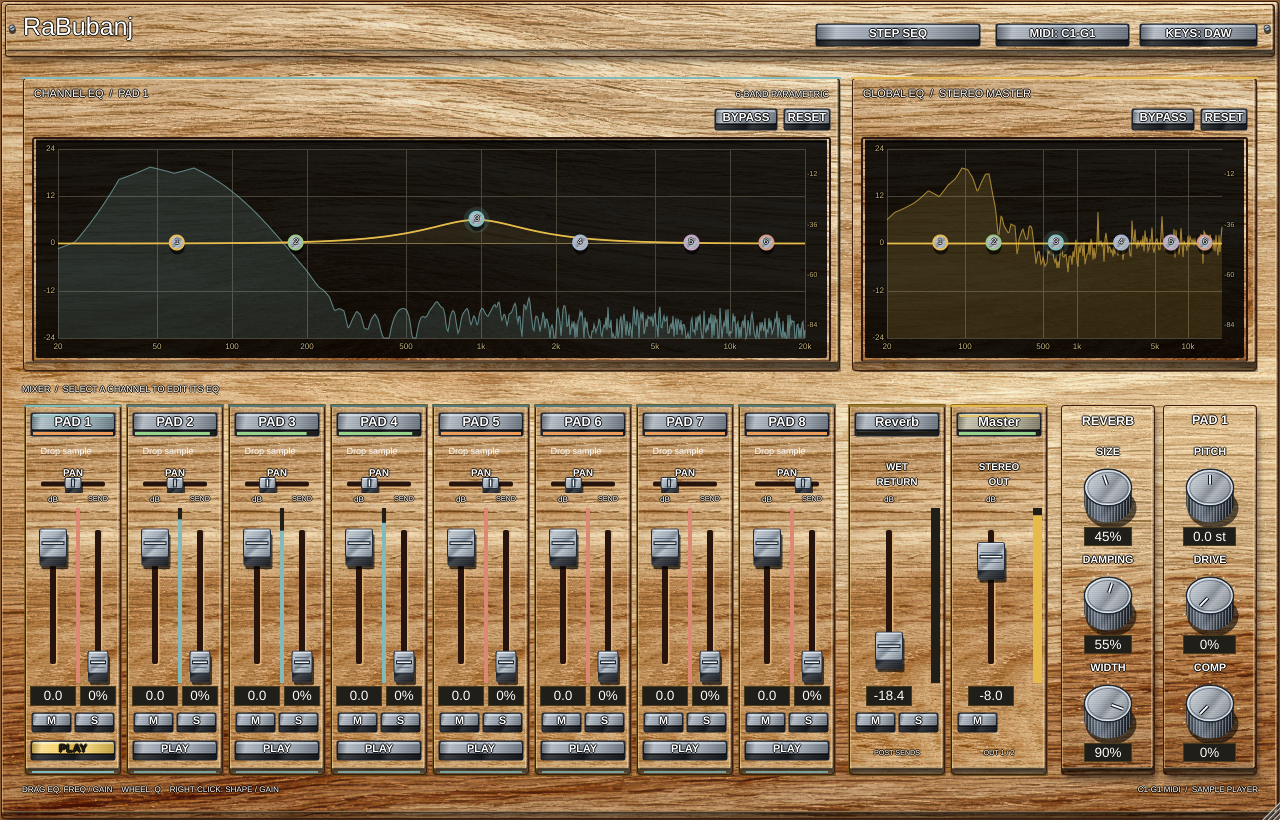
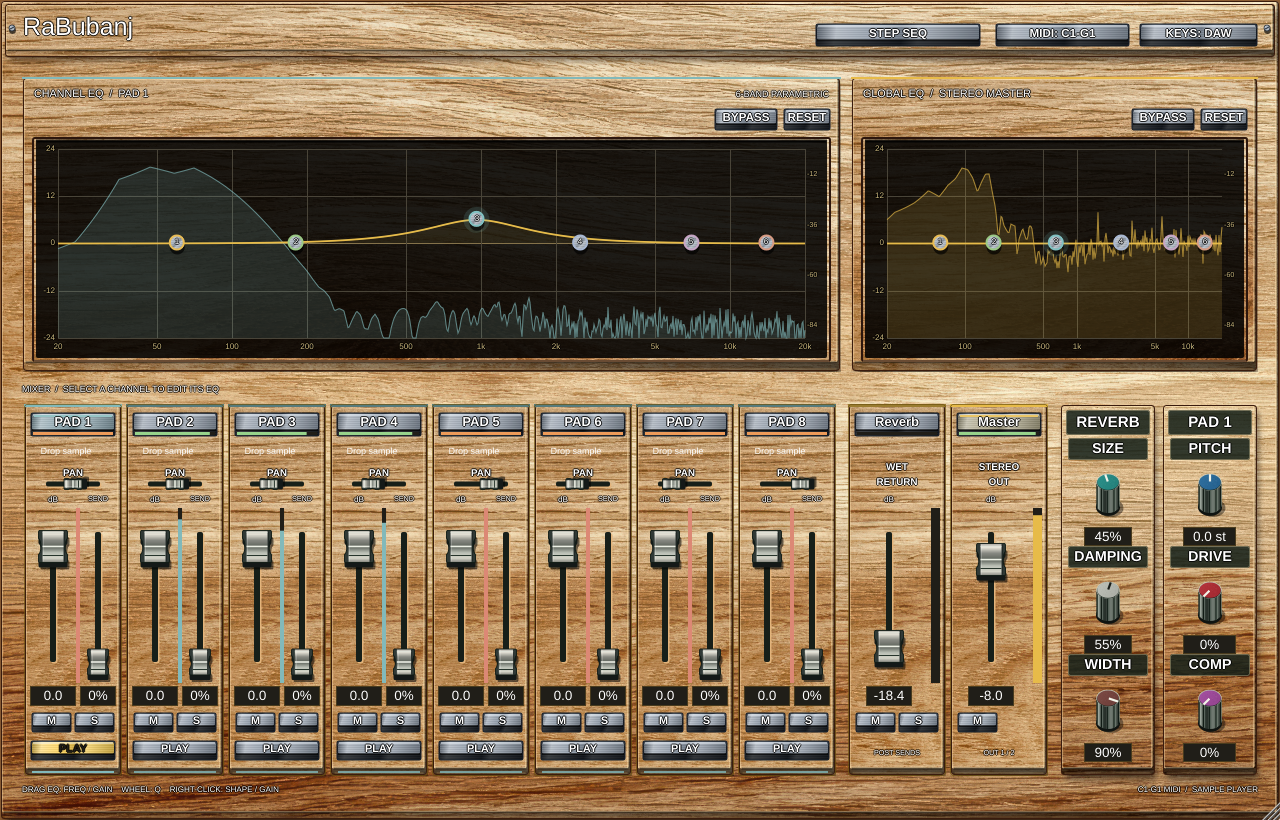
Refine reference controls with smaller rotary knobs and clearer legends

diff --git a/Source/PluginEditor.cpp b/Source/PluginEditor.cpp
@@ -69,44 +69,110 @@ void MixerLookAndFeel::drawComboBox(juce::Graphics& g, int w, int h, bool down, 
 }
 void MixerLookAndFeel::drawRotarySlider(juce::Graphics& g, int x, int y, int w, int h, float position, float start, float end, juce::Slider& s)
 {
-    const auto radius = juce::jmin(static_cast<float>(w), static_cast<float>(h))*.5f-9;
-    if (radius < 3) return;
-    const auto cx = static_cast<float>(x)+static_cast<float>(w)*.5f, cy = static_cast<float>(y)+static_cast<float>(h)*.5f;
-    const auto rise = juce::jmin(19.0f, radius*.7f), angle = start+position*(end-start);
-    const juce::Rectangle<float> top(cx-radius, cy-radius*.78f-rise*.42f, radius*2, radius*1.56f);
-    const auto lower = top.translated(0, rise);
-    for (int tick = 0; tick <= 10; ++tick)
-    {
-        const auto a = start+static_cast<float>(tick)*(end-start)/10;
-        g.setColour(ink.withAlpha(s.isEnabled() ? .9f : .35f));
-        g.drawLine(cx+std::sin(a)*(radius+4), cy-std::cos(a)*(radius+4), cx+std::sin(a)*(radius+6), cy-std::cos(a)*(radius+6), 1);
-    }
-    g.setColour(juce::Colours::black.withAlpha(.6f)); g.fillEllipse(lower.translated(3, 4).expanded(2));
-    juce::Path body; body.addRectangle(top.getX(), top.getCentreY(), top.getWidth(), rise); body.addEllipse(lower);
-    metalSurface(g, body, steelDark);
-    juce::ColourGradient sides(juce::Colours::black.withAlpha(.65f), top.getX(), cy, juce::Colours::black.withAlpha(.7f), top.getRight(), cy, false);
-    sides.addColour(.3, juce::Colour(0xffe5f1ff).withAlpha(.4f)); sides.addColour(.65, juce::Colours::black.withAlpha(.25f));
-    g.setGradientFill(sides); g.fillPath(body);
+    // Keep the approved reference silhouette and scale the complete rotary artwork by 70%.
+    // Slider bounds and mouse/automation behaviour remain independent of the rendered size.
+    juce::Graphics::ScopedSaveState savedKnob(g);
+    g.addTransform(juce::AffineTransform::scale(.7f, .7f, static_cast<float>(x)+static_cast<float>(w)*.5f, static_cast<float>(y)+static_cast<float>(h)*.5f));
+    const auto diameter = juce::jmin(static_cast<float>(w)-14, (static_cast<float>(h)-9)/1.7f);
+    if (diameter < 6) return;
+    const auto radius = diameter*.5f, rise = diameter*.98f, capHeight = diameter*.72f;
+    const auto cx = static_cast<float>(x)+static_cast<float>(w)*.5f;
+    const auto topY = static_cast<float>(y)+3;
+    const juce::Rectangle<float> top(cx-radius, topY, diameter, capHeight), lower = top.translated(0, rise);
+    const auto angle = start+position*(end-start), topCy = top.getCentreY();
+    const auto name = s.getName();
+    const auto colour = !s.isEnabled() ? juce::Colour(0xff72766f)
+        : name.containsIgnoreCase("pitch") ? juce::Colour(0xff286b9d)
+        : name.containsIgnoreCase("drive") ? juce::Colour(0xffb42c35)
+        : name.containsIgnoreCase("compression") ? juce::Colour(0xffa34b9f)
+        : name.containsIgnoreCase("damping") ? juce::Colour(0xffbdc0b7)
+        : name.containsIgnoreCase("width") ? juce::Colour(0xff78443e) : juce::Colour(0xff258e87);
+    g.setColour(juce::Colours::black.withAlpha(.42f)); g.fillEllipse(lower.translated(diameter*.14f, diameter*.14f).expanded(1));
+    g.setColour(juce::Colour(0xff101411)); g.fillEllipse(lower.translated(0, diameter*.1f).expanded(.8f));
+    juce::Path body; body.addRectangle(top.getX(), topCy, diameter, rise); body.addEllipse(lower);
+    juce::ColourGradient wall(juce::Colour(0xff434b46), top.getX(), topCy, juce::Colour(0xff424a44), top.getRight(), topCy, false);
+    wall.addColour(.08, juce::Colour(0xffa3aaa1)); wall.addColour(.2, juce::Colour(0xff424d46));
+    wall.addColour(.37, juce::Colour(0xff242c27)); wall.addColour(.62, juce::Colour(0xff747e75)); wall.addColour(.8, juce::Colour(0xff505b52));
+    g.setGradientFill(wall); g.fillPath(body);
     {
         juce::Graphics::ScopedSaveState saved(g); g.reduceClipRegion(body);
-        for (int rib = -8; rib <= 8; ++rib)
+        for (int flute = -2; flute <= 2; ++flute)
         {
-            const auto rx = cx+static_cast<float>(rib)*radius/8;
-            g.setColour(juce::Colour(0xff15202d).withAlpha(.8f)); g.drawLine(rx, top.getCentreY(), rx, lower.getBottom(), .8f);
-            g.setColour(juce::Colour(0xffe9f3ff).withAlpha(.6f)); g.drawLine(rx+.8f, top.getCentreY(), rx+.8f, lower.getBottom(), .6f);
+            const auto a = static_cast<float>(flute)*.58f;
+            const auto fx = cx+std::sin(a)*radius, fy = topCy+std::cos(a)*capHeight*.5f;
+            const auto groove = juce::jmax(1.3f, diameter*.075f);
+            g.setGradientFill(juce::ColourGradient(juce::Colour(0xff111b15), fx-groove*.5f, fy, juce::Colour(0xff56665a), fx+groove*.5f, fy, false));
+            g.fillRect(fx-groove*.5f, fy-2, groove, rise+3);
+            g.setColour(juce::Colour(0xffc4cdc1).withAlpha(.55f)); g.drawLine(fx+groove*.5f, fy, fx+groove*.5f, fy+rise, .7f);
         }
     }
-    juce::Path cap; cap.addEllipse(top); metalSurface(g, cap, steel.brighter(.1f));
-    g.setGradientFill(juce::ColourGradient(juce::Colours::white.withAlpha(.18f), top.getTopLeft(), juce::Colours::black.withAlpha(.18f), top.getBottomRight(), false)); g.fillEllipse(top);
-    g.setColour(juce::Colour(0xff1c2734)); g.drawEllipse(top, 1.5f);
-    g.setColour(juce::Colour(0xfff3f9ff).withAlpha(.9f)); g.drawEllipse(top.reduced(1.4f), 1);
-    g.setColour(juce::Colour(0xff45576a).withAlpha(.7f)); g.drawEllipse(top.reduced(3.3f), .8f);
-    for (float inset = 5; inset < radius*.72f; inset += 2)
-    { g.setColour(juce::Colour(0xffdbe8f6).withAlpha(.18f)); g.drawEllipse(top.reduced(inset, inset*.78f), .45f); }
-    const auto tx = cx+std::sin(angle)*radius*.71f, ty = top.getCentreY()-std::cos(angle)*radius*.54f;
-    g.setColour(juce::Colour(0xff111a27)); g.drawLine(cx+std::sin(angle)*radius*.15f, top.getCentreY()-std::cos(angle)*radius*.12f, tx, ty, 4);
-    g.setColour(ink); g.drawLine(cx+std::sin(angle)*radius*.17f, top.getCentreY()-std::cos(angle)*radius*.13f, tx, ty, 1.8f);
-    if (!s.isEnabled()) { g.setColour(juce::Colours::black.withAlpha(.35f)); g.fillPath(body); g.fillEllipse(top); }
+    // A subtly scalloped rim corresponds to the flutes; the coloured cap remains a flat disc.
+    juce::Path rim;
+    for (int point = 0; point <= 120; ++point)
+    {
+        const auto a = static_cast<float>(point)*juce::MathConstants<float>::twoPi/120;
+        const auto ripple = 1-.022f*std::pow(.5f+.5f*std::cos(a*10), 4.0f);
+        const juce::Point<float> p(cx+std::sin(a)*radius*ripple, topCy-std::cos(a)*capHeight*.5f*ripple);
+        if (point == 0) rim.startNewSubPath(p); else rim.lineTo(p);
+    }
+    rim.closeSubPath();
+    g.setColour(juce::Colour(0xffaeb6aa)); g.fillPath(rim);
+    g.setColour(juce::Colour(0xffe3e8dc).withAlpha(.55f)); g.strokePath(rim, juce::PathStrokeType(.7f));
+    const auto cap = top.reduced(diameter*.035f, diameter*.026f);
+    g.setColour(juce::Colour(0xff18251e)); g.fillEllipse(cap.translated(0, 1));
+    g.setGradientFill(juce::ColourGradient(colour.brighter(.045f), cap.getTopLeft(), colour.darker(.12f), cap.getBottomRight(), false)); g.fillEllipse(cap);
+    {
+        juce::Graphics::ScopedSaveState saved(g); juce::Path clip; clip.addEllipse(cap); g.reduceClipRegion(clip);
+        for (int py = juce::roundToInt(cap.getY()); py < juce::roundToInt(cap.getBottom()); ++py)
+            for (int px = juce::roundToInt(cap.getX()); px < juce::roundToInt(cap.getRight()); ++px)
+            {
+                auto grain = static_cast<unsigned>(px)*374761393u+static_cast<unsigned>(py)*668265263u;
+                grain = (grain^(grain >> 13u))*1274126177u; grain ^= grain >> 16u;
+                if ((grain & 7u) == 0) { g.setColour((grain & 8u) != 0 ? juce::Colours::white.withAlpha(.07f) : juce::Colours::black.withAlpha(.055f)); g.fillRect(px, py, 1, 1); }
+            }
+    }
+    g.setColour(name.containsIgnoreCase("damping") ? juce::Colour(0xff171b17) : juce::Colour(0xfff2f3e8));
+    g.drawLine(cx+std::sin(angle)*radius*.08f, topCy-std::cos(angle)*radius*.058f,
+        cx+std::sin(angle)*radius*.96f, topCy-std::cos(angle)*radius*.69f, juce::jmax(2.0f, diameter*.095f));
+    if (!s.isEnabled()) { g.setColour(juce::Colours::black.withAlpha(.22f)); g.fillPath(body); g.fillEllipse(cap); }
+}
+namespace
+{
+void drawControlLegend(juce::Graphics& g, const juce::String& label, juce::Rectangle<int> bounds, float fontSize = 16)
+{
+    g.setColour(juce::Colour(0xff142019).withAlpha(.86f)); g.fillRoundedRectangle(bounds.toFloat(), 2.5f);
+    g.setColour(juce::Colour(0xffe9d6a5).withAlpha(.45f)); g.drawRoundedRectangle(bounds.toFloat().reduced(.5f), 2.5f, .8f);
+    text(g, label, bounds.reduced(2, 0), fontSize, ink, juce::Justification::centred, true);
+}
+void drawSaddleFader(juce::Graphics& g, float cx, float cy, float width, float length)
+{
+    const auto left = cx-width*.5f, right = cx+width*.5f, top = cy-length*.5f, bottom = cy+length*.5f;
+    const auto waist = juce::jmin(3.2f, width*.12f), wing = length*.24f;
+    juce::Path cap;
+    cap.startNewSubPath(left+1, top); cap.lineTo(right-1, top); cap.quadraticTo(right, top, right, top+2);
+    cap.lineTo(right, top+wing); cap.cubicTo(right-waist, cy-length*.15f, right-waist, cy+length*.15f, right, bottom-wing);
+    cap.lineTo(right, bottom-2); cap.quadraticTo(right, bottom, right-1, bottom); cap.lineTo(left+1, bottom); cap.quadraticTo(left, bottom, left, bottom-2);
+    cap.lineTo(left, bottom-wing); cap.cubicTo(left+waist, cy+length*.15f, left+waist, cy-length*.15f, left, top+wing);
+    cap.lineTo(left, top+2); cap.quadraticTo(left, top, left+1, top); cap.closeSubPath();
+    const auto extrusion = juce::AffineTransform::translation(0, 5);
+    g.setColour(juce::Colours::black.withAlpha(.55f)); g.fillPath(cap, juce::AffineTransform::translation(2, 7));
+    g.setColour(juce::Colour(0xff141918)); g.fillPath(cap, extrusion);
+    g.setColour(juce::Colour(0xff303936)); g.fillPath(cap);
+    {
+        juce::Graphics::ScopedSaveState saved(g); g.reduceClipRegion(cap);
+        const auto cheek = juce::jmin(4.0f, width*.16f);
+        juce::ColourGradient aluminium(juce::Colour(0xffb6b4ad), cx, top, juce::Colour(0xff81817a), cx, bottom, false);
+        aluminium.addColour(.12, juce::Colour(0xffe6e3d8)); aluminium.addColour(.3, juce::Colour(0xff888982));
+        aluminium.addColour(.5, juce::Colour(0xff5d635b)); aluminium.addColour(.7, juce::Colour(0xffbbc0b6)); aluminium.addColour(.86, juce::Colour(0xffd4d4c8));
+        g.setGradientFill(aluminium); g.fillRect(left+cheek, top, width-cheek*2, length);
+        g.setColour(juce::Colours::white.withAlpha(.2f)); g.drawVerticalLine(juce::roundToInt(left+cheek)+1, top+1, bottom-1);
+        g.setColour(juce::Colours::black.withAlpha(.3f)); g.drawVerticalLine(juce::roundToInt(right-cheek), top+1, bottom-1);
+        g.setColour(juce::Colour(0xffeef1e6)); g.fillRect(left+cheek, cy-.8f, width-cheek*2, 1.6f);
+        g.setColour(juce::Colour(0xffe6eadf).withAlpha(.65f)); g.drawHorizontalLine(juce::roundToInt(top)+2, left+cheek, right-cheek);
+        g.setColour(juce::Colour(0xff26342b)); g.drawHorizontalLine(juce::roundToInt(bottom-wing), left+cheek, right-cheek);
+    }
+    g.setColour(juce::Colour(0xff111c16)); g.strokePath(cap, juce::PathStrokeType(.9f));
+}
 }
 void MixerLookAndFeel::drawLinearSlider(juce::Graphics& g, int x, int y, int w, int h, float position, float minimum, float maximum, juce::Slider::SliderStyle style, juce::Slider& s)
 {
@@ -117,24 +183,17 @@ void MixerLookAndFeel::drawLinearSlider(juce::Graphics& g, int x, int y, int w, 
     const auto track = vertical ? juce::Rectangle<float>(cx-3, static_cast<float>(y), 6, static_cast<float>(h))
         : juce::Rectangle<float>(static_cast<float>(x), cy-2.5f, static_cast<float>(w), 5);
     g.setColour(juce::Colour(0xffe3b47b)); g.fillRoundedRectangle(track.translated(1.5f, 1.5f), 2);
-    g.setColour(juce::Colour(0xff27150d)); g.fillRoundedRectangle(track, 2);
-    const bool send = s.getName().containsIgnoreCase("send");
-    const auto capWidth = vertical ? juce::jmin(static_cast<float>(w-2), send ? 20.0f : 27.0f) : 16.0f;
-    const auto capHeight = vertical ? (send ? 22.0f : 28.0f) : juce::jmin(11.0f, static_cast<float>(h)-5);
-    const auto rise = vertical ? 7.0f : 4.0f;
-    const juce::Rectangle<float> face((vertical ? cx : position)-capWidth*.5f, (vertical ? position : cy)-capHeight*.5f-rise*.25f, capWidth, capHeight);
-    const auto body = face.withTrimmedTop(2).withHeight(face.getHeight()+rise);
-    g.setColour(juce::Colours::black.withAlpha(.65f)); g.fillRoundedRectangle(body.translated(2, 3), 2);
-    metalSurface(g, body, steelDark); g.setColour(juce::Colours::black.withAlpha(.4f)); g.fillRoundedRectangle(body, 2);
-    metalSurface(g, face, steel); g.setColour(juce::Colour(0xff202b39)); g.drawRoundedRectangle(face, 2, 1);
-    g.setColour(juce::Colour(0xffeff7ff)); g.drawLine(face.getX()+1, face.getY()+1, face.getRight()-1, face.getY()+1, 1);
+    g.setColour(juce::Colour(0xff171f19)); g.fillRoundedRectangle(track, 2);
     if (vertical)
     {
-        for (int rib : { -1, 1 }) { g.setColour(juce::Colour(0xff596c80)); g.drawHorizontalLine(juce::roundToInt(face.getCentreY())+rib*5, face.getX()+3, face.getRight()-3); }
-        g.setColour(juce::Colour(0xff1b2634)); g.fillRect(face.getX()+2, face.getCentreY()-2, capWidth-4, 4.0f);
-        g.setColour(ink); g.fillRect(face.getX()+3, face.getCentreY()-.7f, capWidth-6, 1.4f);
+        const auto send = s.getName().containsIgnoreCase("send");
+        drawSaddleFader(g, cx, position, juce::jmin(static_cast<float>(w-2), send ? 21.0f : 29.0f), send ? 26.0f : 32.0f);
     }
-    else { g.setColour(juce::Colour(0xff1b2634)); g.fillRect(position-2, face.getY()+1, 4.0f, capHeight-2); g.setColour(ink); g.fillRect(position-.7f, face.getY()+2, 1.4f, capHeight-4); }
+    else
+    {
+        juce::Graphics::ScopedSaveState saved(g); g.addTransform(juce::AffineTransform::rotation(-juce::MathConstants<float>::halfPi, position, cy));
+        drawSaddleFader(g, position, cy, juce::jmin(11.0f, static_cast<float>(h)-5), 18);
+    }
 }
 
 MixerStrip::MixerStrip(RaBubanjProcessor& p, int busToUse) : processor(p), bus(busToUse),
@@ -429,14 +488,14 @@ void RaBubanjEditor::paint(juce::Graphics& g)
     text(g, "MIXER  /  SELECT A CHANNEL TO EDIT ITS EQ", { mixerArea.getX(), mixerArea.getY()-24, 500, 18 }, 10, muted);
     raisedPanel(g, reverbControlsArea.toFloat(), panel, 1.0f);
     raisedPanel(g, reservedArea.toFloat(), panel.darker(.1f), 1.0f);
-    text(g, "REVERB", reverbControlsArea.reduced(6).removeFromTop(23), 14, ink, juce::Justification::centred, true);
-    text(g, "SIZE", { size.getX(), size.getY()-19, size.getWidth(), 18 }, 12, ink, juce::Justification::centred, true);
-    text(g, "DAMPING", { damping.getX(), damping.getY()-19, damping.getWidth(), 18 }, 12, ink, juce::Justification::centred, true);
+    drawControlLegend(g, "REVERB", reverbControlsArea.reduced(6).removeFromTop(25), 17);
+    drawControlLegend(g, "SIZE", { size.getX(), size.getY()-24, size.getWidth(), 22 });
+    drawControlLegend(g, "DAMPING", { damping.getX(), damping.getY()-24, damping.getWidth(), 22 });
     const auto colourTitle = colourBus >= 0 && colourBus < 8 ? juce::String(rabubanj::padNames[static_cast<size_t>(colourBus)]).toUpperCase() : "DRUM FX";
-    text(g, colourTitle, reservedArea.reduced(5).removeFromTop(23), 14, ink, juce::Justification::centred, true);
+    drawControlLegend(g, colourTitle, reservedArea.reduced(6).removeFromTop(25), 17);
     for (const auto& item : { std::pair<juce::Slider*, const char*>(&pitch, "PITCH"), { &drive, "DRIVE" }, { &compression, "COMP" } })
-        text(g, item.second, { item.first->getX(), item.first->getY()-19, item.first->getWidth(), 18 }, 12, ink, juce::Justification::centred, true);
-    text(g, "WIDTH", { width.getX(), width.getY()-19, width.getWidth(), 18 }, 12, ink, juce::Justification::centred, true);
+        drawControlLegend(g, item.second, { item.first->getX(), item.first->getY()-24, item.first->getWidth(), 22 });
+    drawControlLegend(g, "WIDTH", { width.getX(), width.getY()-24, width.getWidth(), 22 });
     text(g, "DRAG EQ: FREQ / GAIN    WHEEL: Q    RIGHT-CLICK: SHAPE / GAIN", footerArea, 9, muted);
     text(g, "C1-G1 MIDI  /  SAMPLE PLAYER", footerArea, 9, muted, juce::Justification::centredRight);
 }

diff --git a/Source/PluginEditor.h b/Source/PluginEditor.h
@@ -43,7 +43,7 @@ class MixerLookAndFeel final : public juce::LookAndFeel_V4
 {
 public:
     MixerLookAndFeel();
-    int getSliderThumbRadius(juce::Slider& s) override { return s.getSliderStyle() == juce::Slider::LinearVertical ? 22 : 11; }
+    int getSliderThumbRadius(juce::Slider& s) override { return s.getSliderStyle() == juce::Slider::LinearVertical ? 24 : 16; }
     juce::Button* createDocumentWindowButton(int) override;
     void drawDocumentWindowTitleBar(juce::DocumentWindow&, juce::Graphics&, int, int, int, int, const juce::Image*, bool) override;
     void drawButtonBackground(juce::Graphics&, juce::Button&, const juce::Colour&, bool, bool) override;

diff --git a/VALIDATION.md b/VALIDATION.md
@@ -1,44 +1,5 @@
-# RaBubanj 0.11 validation
+# RaBubanj 0.12 validation
 
-Verified 20 November 2026. Tested source: `7613975013e09c066fa924c67a71f691ed57253c`.
+Native Windows validation pending for the reference-shaped rotary controls and saddle faders.
 
-[Native Windows run](https://github.com/voyagersquare/RaBubanj/actions/runs/44797921119) · [Windows x64 ZIP](https://github.com/voyagersquare/RaBubanj/actions/runs/44797921119/artifacts/14660885460) · [pluginval logs](https://github.com/voyagersquare/RaBubanj/actions/runs/44797921119/artifacts/14661035248)
-
-## Build and package
-
-- MSVC Release x64 VST3 and standalone: passed. All **nine** CTest suites passed with zero failures.
-- pluginval 1.0.4, strictness **5: SUCCESS**, explicitly awaited before packaging. The optional separate Steinberg validator is not configured.
-- Downloaded ZIP integrity and SHA256 match GitHub's artifact digest. Both PE binaries are AMD64; the VST3 manifest is 0.11.0. Bundled project sources match the tested commit after Windows newline normalization. Corresponding JUCE source and licenses are included.
-- Portable archive: 62,726,083 bytes, without an installer. The original JPEG is verified inside the bundled source and both binaries.
-- The same nine suites passed locally in Linux Release. Actual JUCE mixer/sequencer previews were exported and inspected. A targeted sequencer preview run followed the final preview-fixture change to inherit the real metal look-and-feel.
-
-## Original wood asset
-
-- The user-supplied RAR contains `natural-light-brown-wood-grain-texture.jpg`; its unchanged bytes are committed as `Assets/wood-reference.jpg`.
[1 lines of base64/hex data omitted]
-- CMake generates a binary resource containing those source bytes. The image is decoded/cached on the GUI thread, shared across editor instances, and needs no external image path at runtime. Image loading does not occur in the audio callback.
-- Housing, channel sections, EQ frames, Reverb/FX panels and sequencer enclosure show the original natural grain. Uniform scaling/cropping fits the panels; relief lighting is separate. No replacement texture or recoloured source image is used.
-
-## Raised metal controls
-
-- Tall rotary controls use metal top faces, concentric machining marks, knurled cylindrical sides and deep shadows. Fader caps and PAN/TIMING handles have greater thickness and extended travel padding.
-- All pushbuttons, dropdown housings, PAD labels, sequencer keys, EQ nodes and screws use the metal material. Metal rendering is independent of the wood resource; no wood remains on control faces.
-- White outlined legends remain readable over wood and metal. PLAY lights yellow, close controls remain red, and four sequence strengths, selected PADs, playhead and early/late note markers retain their semantics.
-- Rendered minimum/default/maximum mixer views were exported. Minimum and default layouts plus the actual sequencer window were visually inspected. The standalone sequencer/timing preview fixture now inherits the editor look-and-feel and resets that reference before destruction.
-- [Mixer](docs/preview.png) · [Sequencer window](docs/sequencer-window.png) · [Note timing](docs/note-timing.png) · [EQ menu](docs/eq-menu.png).
-
-## Functional regression checks
-
-Nine suites cover engine/pitch, EQ, legacy sources, processor/MIDI/state, mixer/editor, sample import/recall, channel colour/spectrum, sequencer timing and sequencer/MIDI/editor integration. No DSP, MIDI map, parameter identity, state schema, sample loading or sequencer scheduling changes are introduced in this release.
-
-Existing coverage includes per-pad audition and selection, yellow PLAY feedback, EQ context actions, min/default/max editor/window bounds, explicit X and STEP SEQ toggling, waveform capture/isolation, four-pattern recall/migration, left-drag painting, four click-selected velocities, right-drag erase, per-note timing, MIDI file contents, host transport/loops and Space forwarding. Earlier timing/sanitizer validation is archived in [0.10 validation](docs/VALIDATION-0.10.md).
-
-Actual Ableton sessions, native Windows sample/MIDI drops into a DAW, physical MIDI/audio hardware and native host Space handling have not been exercised here. Tests cover the plugin-side functionality and simulated host transport. Standalone audition/external MIDI remains available, but standalone does not supply DAW transport for the sequencer.
-
-## Checksum
-
-```text
-e0a9d04c62b8b221e1e4f14d3d005c73d0738b72b74e49ad50753dca972283e9  RaBubanj-0.11.0-Windows-x64.zip
-```
-
-Artifacts are retained for 30 days and may require GitHub sign-in. Rebuild: **Actions → Windows VST3 → Run workflow**.
+[Previous validation](docs/VALIDATION-0.11.md).

diff --git a/docs/VALIDATION-0.11.md b/docs/VALIDATION-0.11.md
@@ -1,0 +1,44 @@
+# RaBubanj 0.11 validation
+
+Verified 20 November 2026. Tested source: `7613975013e09c066fa924c67a71f691ed57253c`.
+
+[Native Windows run](https://github.com/voyagersquare/RaBubanj/actions/runs/44797921119) · [Windows x64 ZIP](https://github.com/voyagersquare/RaBubanj/actions/runs/44797921119/artifacts/14660885460) · [pluginval logs](https://github.com/voyagersquare/RaBubanj/actions/runs/44797921119/artifacts/14661035248)
+
+## Build and package
+
+- MSVC Release x64 VST3 and standalone: passed. All **nine** CTest suites passed with zero failures.
+- pluginval 1.0.4, strictness **5: SUCCESS**, explicitly awaited before packaging. The optional separate Steinberg validator is not configured.
+- Downloaded ZIP integrity and SHA256 match GitHub's artifact digest. Both PE binaries are AMD64; the VST3 manifest is 0.11.0. Bundled project sources match the tested commit after Windows newline normalization. Corresponding JUCE source and licenses are included.
+- Portable archive: 62,726,083 bytes, without an installer. The original JPEG is verified inside the bundled source and both binaries.
+- The same nine suites passed locally in Linux Release. Actual JUCE mixer/sequencer previews were exported and inspected. A targeted sequencer preview run followed the final preview-fixture change to inherit the real metal look-and-feel.
+
+## Original wood asset
+
+- The user-supplied RAR contains `natural-light-brown-wood-grain-texture.jpg`; its unchanged bytes are committed as `Assets/wood-reference.jpg`.
[1 lines of base64/hex data omitted]
+- CMake generates a binary resource containing those source bytes. The image is decoded/cached on the GUI thread, shared across editor instances, and needs no external image path at runtime. Image loading does not occur in the audio callback.
+- Housing, channel sections, EQ frames, Reverb/FX panels and sequencer enclosure show the original natural grain. Uniform scaling/cropping fits the panels; relief lighting is separate. No replacement texture or recoloured source image is used.
+
+## Raised metal controls
+
+- Tall rotary controls use metal top faces, concentric machining marks, knurled cylindrical sides and deep shadows. Fader caps and PAN/TIMING handles have greater thickness and extended travel padding.
+- All pushbuttons, dropdown housings, PAD labels, sequencer keys, EQ nodes and screws use the metal material. Metal rendering is independent of the wood resource; no wood remains on control faces.
+- White outlined legends remain readable over wood and metal. PLAY lights yellow, close controls remain red, and four sequence strengths, selected PADs, playhead and early/late note markers retain their semantics.
+- Rendered minimum/default/maximum mixer views were exported. Minimum and default layouts plus the actual sequencer window were visually inspected. The standalone sequencer/timing preview fixture now inherits the editor look-and-feel and resets that reference before destruction.
+- [Mixer](preview.png) · [Sequencer window](sequencer-window.png) · [Note timing](note-timing.png) · [EQ menu](eq-menu.png).
+
+## Functional regression checks
+
+Nine suites cover engine/pitch, EQ, legacy sources, processor/MIDI/state, mixer/editor, sample import/recall, channel colour/spectrum, sequencer timing and sequencer/MIDI/editor integration. No DSP, MIDI map, parameter identity, state schema, sample loading or sequencer scheduling changes are introduced in this release.
+
+Existing coverage includes per-pad audition and selection, yellow PLAY feedback, EQ context actions, min/default/max editor/window bounds, explicit X and STEP SEQ toggling, waveform capture/isolation, four-pattern recall/migration, left-drag painting, four click-selected velocities, right-drag erase, per-note timing, MIDI file contents, host transport/loops and Space forwarding. Earlier timing/sanitizer validation is archived in [0.10 validation](VALIDATION-0.10.md).
+
+Actual Ableton sessions, native Windows sample/MIDI drops into a DAW, physical MIDI/audio hardware and native host Space handling have not been exercised here. Tests cover the plugin-side functionality and simulated host transport. Standalone audition/external MIDI remains available, but standalone does not supply DAW transport for the sequencer.
+
+## Checksum
+
+```text
+e0a9d04c62b8b221e1e4f14d3d005c73d0738b72b74e49ad50753dca972283e9  RaBubanj-0.11.0-Windows-x64.zip
+```
+
+Artifacts are retained for 30 days and may require GitHub sign-in. Rebuild: **Actions → Windows VST3 → Run workflow**.

diff --git a/README.md b/README.md
@@ -1,12 +1,12 @@
-# RaBubanj 0.11.0
+# RaBubanj 0.12.0
 
 Windows x64 VST3 and standalone drum sample instrument by Voyagersquare, with raised wood panels and metal controls, per-channel processing and a shared stereo Reverb. Portable ZIP, without an installer.
 
-[Download Windows x64 ZIP](https://github.com/voyagersquare/RaBubanj/actions/runs/44797921119/artifacts/14660885460) · [Passed Windows build and validation](https://github.com/voyagersquare/RaBubanj/actions/runs/44797921119). Artifacts are retained for 30 days and may require GitHub sign-in.
+Windows 0.12 package links will be added after native validation.
 
 [Windows instructions in Croatian](docs/WINDOWS-HR.md) · [Validation](VALIDATION.md)
 
-![RaBubanj 0.11 PAD mixer and spectrum displays](docs/preview.png)
+![RaBubanj 0.12 PAD mixer and spectrum displays](docs/preview.png)
 
 ## Step sequencer 0.10
 
@@ -35,7 +35,10 @@ The sequencer requires an active DAW audio engine and a monitored instrument tra
 ## Wood panels and metal controls
 
 - The user's original **7680×4302 JPEG** from `wood texture.rar` is embedded **byte for byte** as `Assets/wood-reference.jpg`. Natural wood grain covers the housing, channel sections, EQ frames, Reverb/FX panels and sequencer enclosure. Rendering uses uniform scaling/cropping and separate relief lighting; no replacement texture or recoloured source image is used.
-- **All controls are metal:** high cylindrical rotary knobs with knurled sidewalls and concentric machining rings, thick fader caps, pan/timing slider handles, switches, PAD labels, step keys, dropdown housings, EQ nodes and screws. Brushed surfaces use cold highlights, dark sidewalls and deep shadows. Metal materials are independent of the wood image.
+- **All controls are metal:** tall fluted cylinders with coloured matte top discs, thick position bars and black bases; contoured saddle fader caps with dark side cheeks and brushed aluminium bridges; matching pan/timing slider handles, switches, PAD labels, step keys, dropdown housings, EQ nodes and screws. Brushed surfaces use cold highlights, dark sidewalls and deep shadows. Metal materials are independent of the wood image.
+- Rotary tops follow the supplied reference palette: **SIZE teal, DAMPING off-white, WIDTH burgundy, PITCH blue, DRIVE red and COMP purple**. The light damping cap uses a black marker; the other caps use white markers. Broad flutes, a thin scalloped silver lip and a matte cap finish replace the earlier fine knurling and machining rings.
+- The fader design follows the supplied console photo, with raised end wings, a concave waist, dark end cheeks and a white centre index. Travel padding fits the taller caps at both extremes.
+- Rotary artwork is **30% smaller** than the approved reference-model preview, preserving its proportions and mouse/automation behaviour. The labels above SIZE/DAMPING/WIDTH/PITCH/DRIVE/COMP are larger (16 px bold) on dark contrast plates; Reverb/PAD section captions use 17 px bold.
 - The strong height and bevels from the relief study remain. Fader travel reserves enough room for the taller caps. White outlined legends remain readable on both wood and metal. **PLAY still lights yellow**, close buttons stay red, and sequence velocity/microtiming/selection indicators keep their existing meanings.
 - [Material and original-asset details](docs/WOOD-UI.md).
 - **Right-click an EQ node** for the dark context menu with **Curve shape** (six types), **Gain (dB)**, **Invert gain** and **Band enabled**. Alt-click toggles a band. Drag, wheel, double-click, bypass and reset retain their actions.

diff --git a/docs/WINDOWS-HR.md b/docs/WINDOWS-HR.md
@@ -1,6 +1,6 @@
-# RaBubanj 0.11.0 — Windows x64, bez instalera
+# RaBubanj 0.12.0 — Windows x64, bez instalera
 
-1. Preuzmi ZIP `RaBubanj-0.11.0-Windows-x64` iz uspješnog GitHub Actions builda i raspakiraj ga.
+1. Preuzmi ZIP `RaBubanj-0.12.0-Windows-x64` iz uspješnog GitHub Actions builda i raspakiraj ga.
 2. Zatvori DAW i kopiraj cijelu mapu **RaBubanj.vst3** u `C:\Program Files\Common Files\VST3\`. Zamijeni cijeli prethodni paket.
 3. Ponovno skeniraj VST3 instrumente u 64-bitnom DAW-u, dodaj RaBubanj na MIDI traku i uključi arm/monitoring.
 4. `RaBubanj.exe` je samostalna aplikacija, bez instalera; u njoj odaberi audio i MIDI uređaj.
@@ -34,7 +34,11 @@ MIDI izvoz je datoteka jednog tracka, 960 PPQ, kanal 10, duljine osam beatova. P
 
 Kućište, kanalni paneli, EQ okviri te Reverb/FX i sekvencer koriste izvornu drvenu teksturu iz poslane arhive. JPEG je ugrađen bez izmjene datoteke; prilagodba prikaza zadržava omjer slike, uz odvojeno osvjetljenje reljefa.
 
-**Svi gumbi i kliznici su metalni:** visoki kružni potenciometri s rebrastim bočnim stijenkama, deblje kapice fadera, PAN/TIMING kliznici, tipke, PAD oznake, koraci sekvencera i točke EQ-a. Hladni odsjaji i sjene naglašavaju visinu. Natpisi su bijeli s tamnim rubom radi čitljivosti. PLAY ostaje žut pri pritisku, X crven, a oznake jačina i pomaka nota zadržavaju značenje. Funkcije i spremljeni projekti ostaju isti.
+**Svi gumbi i kliznici su metalni:** visoki cilindri sa širokim uzdužnim utorima, obojenim mat gornjim plohama, debelim oznakama i crnom bazom; profilirane kapice fadera s udubljenom sredinom i tamnim krajevima; PAN/TIMING kliznici, tipke, PAD oznake, koraci sekvencera i točke EQ-a. Hladni odsjaji i sjene naglašavaju visinu. Natpisi su bijeli s tamnim rubom radi čitljivosti. PLAY ostaje žut pri pritisku, X crven, a oznake jačina i pomaka nota zadržavaju značenje. Funkcije i spremljeni projekti ostaju isti.
+
+Kružni gumbi smanjeni su za **30%**, uz zadržan oblik i funkciju. Natpisi SIZE/DAMPING/WIDTH/PITCH/DRIVE/COMP sada su veći i podebljani, na tamnim podlogama radi čitljivosti; povećani su i naslovi REVERB/PAD.
+
+Boje prema primjeru: SIZE tirkizna, DAMPING bijela, WIDTH bordo, PITCH plava, DRIVE crvena i COMP ljubičasta. Oznaka na bijelom gumbu je crna; ostale su bijele. Kapice fadera imaju oblik prema primjeru konzole, s povišenim krilcima, brušenim metalnim mostom i bijelom središnjom oznakom.
 
 ## Nazivi kanala i preslušavanje
 

diff --git a/docs/WOOD-UI.md b/docs/WOOD-UI.md
@@ -2,7 +2,9 @@
 
 The housing, channel sections, EQ frames and sequencer enclosure use the original user-supplied JPEG. See [asset provenance and checksum](../Assets/README.md). The source image is not edited, recoloured or regenerated; its natural grain is drawn at uniform scale and cropped as needed. Bevel lighting and shadows are drawn separately.
 
-Round controls have high metal cylinders, knurled sidewalls, concentric machining marks and incised position indicators. Pushbuttons, fader/PAN/TIMING handles, dropdown housings, PAD labels, sequencer keys, EQ nodes and screws also use metal surfaces. Cool directional highlights and fine brushing distinguish them from the wood.
+Round controls follow the supplied knob reference: tall metal cylinders with broad vertical flutes, black bases, thin scalloped silver lips and matte coloured top discs. Thick radial bars reach the rim; the off-white cap has a black bar and the other caps have white bars. Colours: SIZE teal, DAMPING off-white, WIDTH burgundy, PITCH blue, DRIVE red and COMP purple. Fader caps follow the console reference with a concave saddle, raised wings, dark end cheeks, brushed aluminium centre and white index line. The same profile is scaled/rotated for SEND, PAN and TIMING handles. Pushbuttons, dropdown housings, PAD labels, sequencer keys, EQ nodes and screws also use metal surfaces. Cool directional highlights and fine brushing distinguish them from the wood.
+
+The complete rotary artwork is rendered at 70% of the approved reference-model size. Slot bounds, mouse interaction and automation remain unchanged. The six command legends are 16 px bold on dark contrast plates, with 17 px section captions.
 
 White outlined legends, yellow PLAY feedback, red close buttons, channel meters and velocity/timing markers retain their functions. The visual change does not alter processing, MIDI mapping, patterns, sample recall or parameter IDs.
 

diff --git a/docs/ROADMAP.md b/docs/ROADMAP.md
@@ -70,3 +70,8 @@ Left-drag writing retains click velocity cycling and right-drag erasing. Station
 ## 0.11 — wood panels and raised metal controls
 
 Original user-provided wood image embedded unchanged. Deep panel relief with tall metal rotary controls, faders, pushbuttons, dropdowns, PAD labels and sequencer keys; existing sample/sequence/DSP workflows retained.
+
+
+## 0.12 — reference-shaped knobs and faders
+
+Tall fluted metal cylinders with six coloured matte cap discs, thick rim-reaching indicators and black bases. Rotary artwork reduced by 30%, with larger high-contrast command labels. Console-style saddle faders with dark side cheeks and aluminium bridges; matching PAN/TIMING handles. Wood panels and existing controls/workflows retained.
